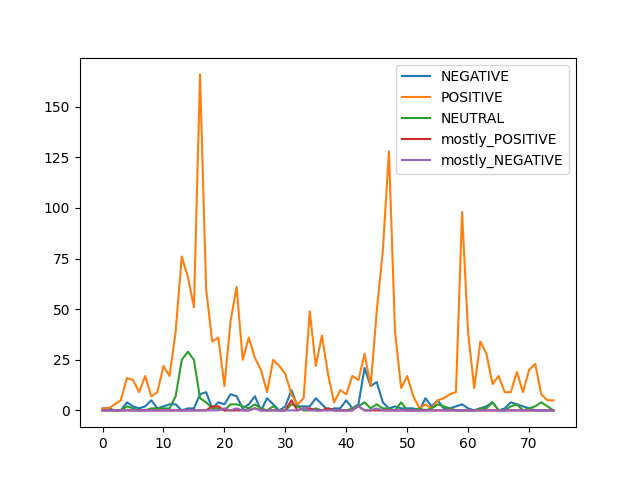
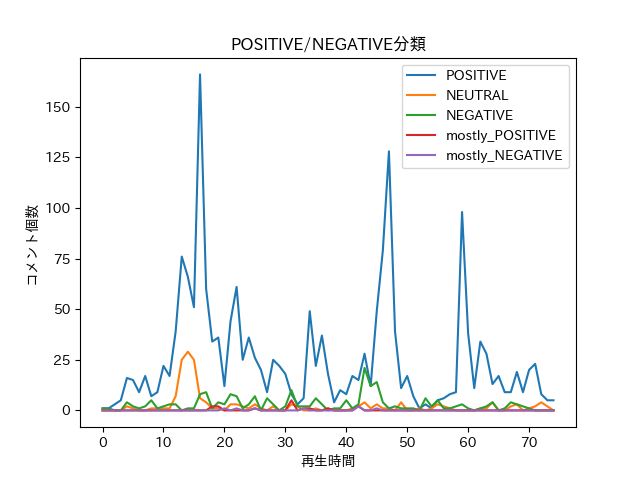
グラフ修正

diff --git a/emotional_analyse.py b/emotional_analyse.py
@@ -100,17 +100,22 @@ for t in range(0, int(df_message.iat[-1,0]), 60): # 0秒からelapstime最終行
     onemin_repre.append(dict(value['representative'].value_counts()))
 
 total_orien = pd.DataFrame(onemin_orien).fillna(0)
+total_orien = total_orien.loc[:, ['POSITIVE','NEUTRAL','NEGATIVE','mostly_POSITIVE', 'mostly_NEGATIVE']]
+
 total_repre = pd.DataFrame(onemin_repre).fillna(0)
 total_repre.drop('None', axis=1, inplace=True)
-# total_orien.plot()
-# plt.title('positive/negative分類')
-# plt.xlabel('再生時間')
-# plt.ylabel('コメント個数')
-# plt.show()
-# plt.savefig('orien.png')
+total_repre = total_repre.loc[:, ['suki', 'yorokobi', 'takaburi','odoroki','ikari','haji','kowa','iya','aware','yasu', 'ikari']]
+
+# print(total_repre)
+
+total_orien.plot()
+plt.title('POSITIVE/NEGATIVE分類')
+plt.xlabel('再生時間')
+plt.ylabel('コメント個数')
+plt.savefig('orien.png')
 
 total_repre.plot()
-# plt.xlabel('再生時間')
-# plt.ylabel('コメント個数')
-# plt.savefig('reple.png')
-plt.legend()
+plt.title('感情別分類')
+plt.xlabel('再生時間')
+plt.ylabel('コメント個数')
+plt.savefig('reple.png')
